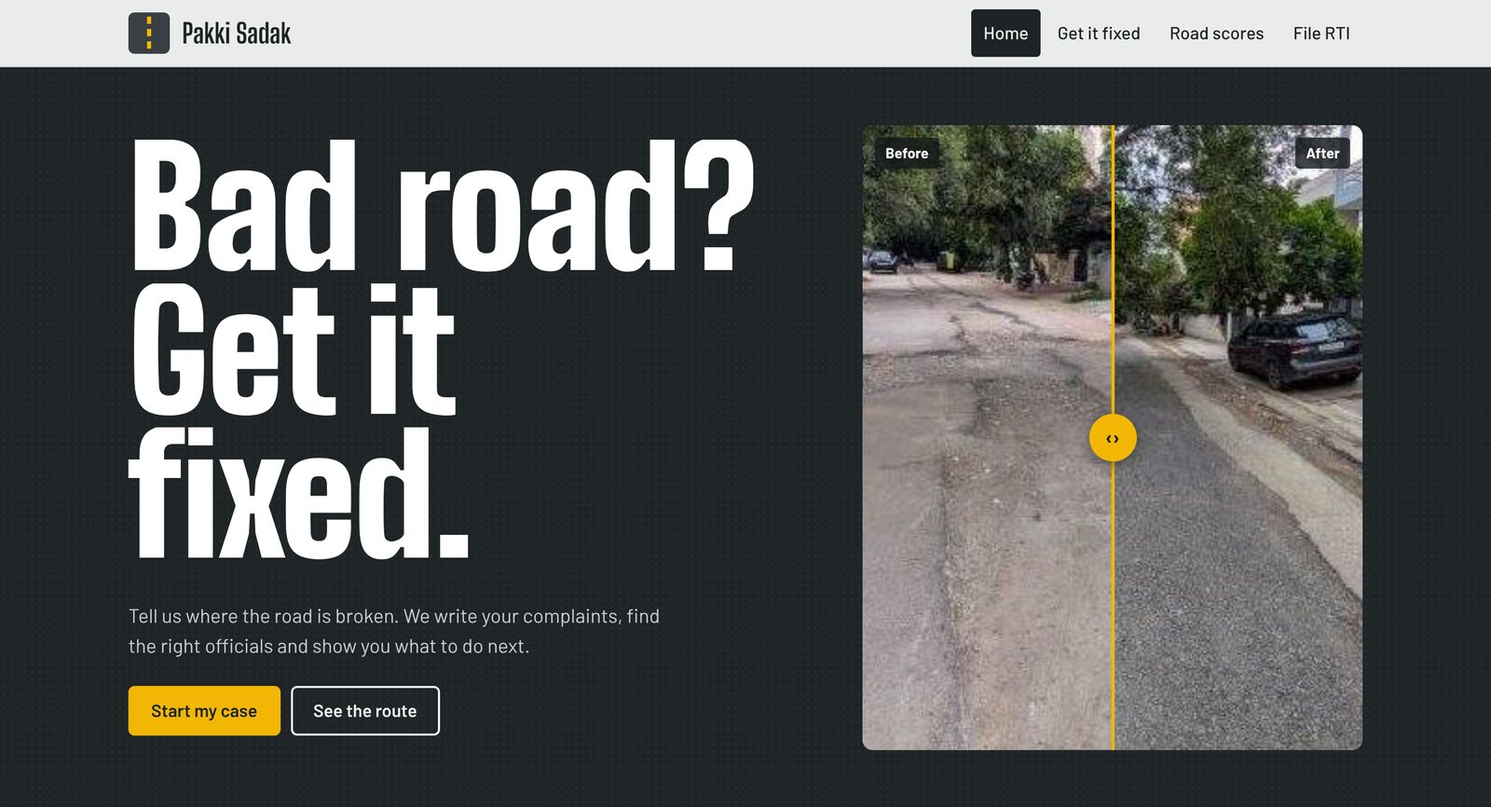
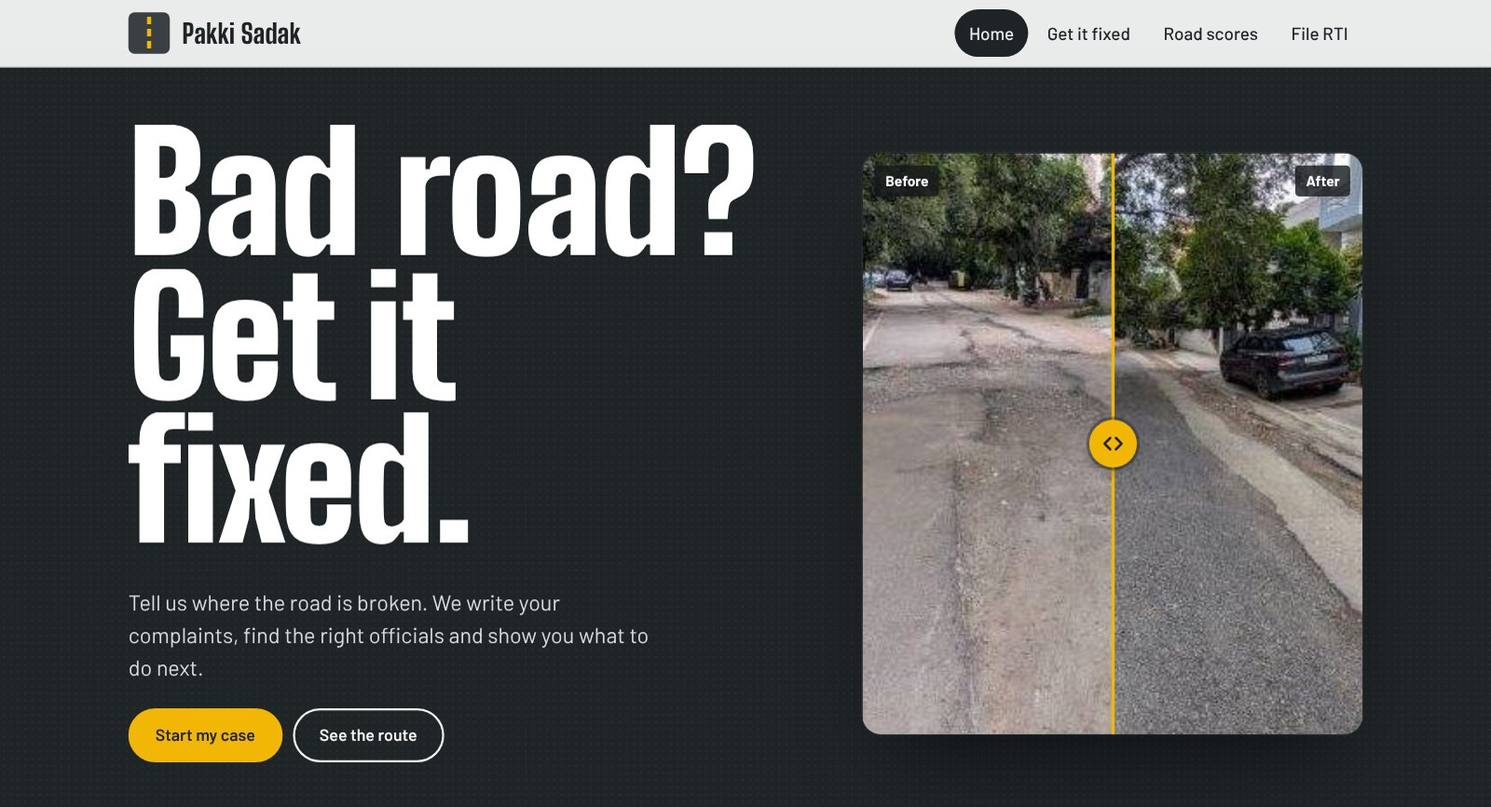
Portfolio: refresh Pakki Sadak card with the polished site screenshot
Claude-Session: https://claude.ai/code/session_01CyFj4p25ard8XS1rsywGwb

diff --git a/index.html b/index.html
@@ -612,7 +612,7 @@ section{padding-top:44px}
 <section id="proof"><div class="wrap">
 <div class="shead"><h2>What I would own in your Founder’s Office, and the proof</h2><p>Five things founders hand to their office, and the work I have delivered under each.</p></div>
 <div class="pnavs"><a href="#p-capital" class="pnav sun"><i><svg viewBox="0 0 48 48"><circle cx="24" cy="24" r="17" fill="none" stroke="currentColor" stroke-width="3.5"/><path d="M24 13v22M29.5 17.5c-1.2-1.6-3.2-2.5-5.5-2.5-3 0-5.5 1.7-5.5 4.2 0 5.8 11.5 3 11.5 9 0 2.6-2.6 4.3-6 4.3-2.6 0-4.8-1-6-2.8" fill="none" stroke="currentColor" stroke-width="3.5" stroke-linecap="round"/></svg></i><b>Capital raising and investor narrative</b><span>Fundable stories backed by hard numbers</span></a><a href="#p-build" class="pnav coral"><i><svg viewBox="0 0 48 48"><rect x="7" y="9" width="34" height="26" rx="4" fill="none" stroke="currentColor" stroke-width="3.5"/><path d="M18 18l-4 4 4 4M30 18l4 4-4 4M26 16l-4 12" fill="none" stroke="currentColor" stroke-width="3" stroke-linecap="round" stroke-linejoin="round"/><path d="M16 41h16" stroke="currentColor" stroke-width="3.5" stroke-linecap="round"/></svg></i><b>0-to-1 builds and AI automation</b><span>Prototypes and AI agents, shipped in days</span></a><a href="#p-research" class="pnav sky"><i><svg viewBox="0 0 48 48"><circle cx="21" cy="21" r="12" fill="none" stroke="currentColor" stroke-width="3.5"/><path d="M30 30l10 10" stroke="currentColor" stroke-width="4" stroke-linecap="round"/><path d="M15 24l4-5 4 3 4-6" fill="none" stroke="currentColor" stroke-width="3" stroke-linecap="round" stroke-linejoin="round"/></svg></i><b>Market research that drives decisions</b><span>Market size and customers, one clear call</span></a><a href="#p-gtm" class="pnav leaf"><i><svg viewBox="0 0 48 48"><path d="M8 38L22 10l6 14 4-6 8 20z" fill="none" stroke="currentColor" stroke-width="3.5" stroke-linejoin="round"/><path d="M22 10v-4l6 2-6 2" fill="currentColor" stroke="currentColor" stroke-width="2" stroke-linejoin="round"/></svg></i><b>Go-to-market and partnerships</b><span>Find the whitespace, close the partners</span></a><a href="#p-cadence" class="pnav violet"><i><svg viewBox="0 0 48 48"><rect x="8" y="26" width="7" height="14" rx="2" fill="currentColor"/><rect x="20.5" y="17" width="7" height="23" rx="2" fill="currentColor"/><rect x="33" y="8" width="7" height="32" rx="2" fill="currentColor"/></svg></i><b>Dashboards and operating cadence</b><span>Weekly reviews that keep work on track</span></a></div>
-<div class="pillar sun" id="p-capital"><div class="phead"><i><svg viewBox="0 0 48 48"><circle cx="24" cy="24" r="17" fill="none" stroke="currentColor" stroke-width="3.5"/><path d="M24 13v22M29.5 17.5c-1.2-1.6-3.2-2.5-5.5-2.5-3 0-5.5 1.7-5.5 4.2 0 5.8 11.5 3 11.5 9 0 2.6-2.6 4.3-6 4.3-2.6 0-4.8-1-6-2.8" fill="none" stroke="currentColor" stroke-width="3.5" stroke-linecap="round"/></svg></i><h3>Capital raising and investor narrative</h3><p>Turn a programme or business into a fundable story with clear numbers, risks and a clear ask.</p></div><div class="cards"><article class="card"><img class="logo" src="ecoforge.png" alt="Ecoforge Advisors logo"><div class="tag">UNDP-GCF / Sri Lanka</div><h4>Electrifying Colombo’s bus fleet</h4><p>Wrote UNDP Sri Lanka’s Green Climate Fund proposal to electrify Colombo’s buses. It funded 161 e-buses.</p><a class="reclink" href="https://www.ccacoalition.org/projects/enabling-environment-electric-buses-public-transport-and-their-pilot-deployment-colombo-sri-lanka" target="_blank" rel="noopener">Colombo e-bus pilot, CCAC &#8599;</a><div class="stats"><div><b>161</b><span>e-buses funded</span></div><div><b>$81M</b><span>proposal</span></div></div></article><article class="card"><img class="logo" src="ecoforge.png" alt="Ecoforge Advisors logo"><div class="tag">UNDP-GEF / Liberia</div><h4>Private capital for Liberian agriculture</h4><p>Designed a $10M UNDP-GEF programme bringing private capital to Liberian farming, mapping 100+ agri MSMEs.</p><a class="reclink" href="https://www.undp.org/liberia/press-releases/epa-undp-seal-partnership-us10m-agriculture-resilience-project" target="_blank" rel="noopener">SARTLA partnership, UNDP Liberia &#8599;</a><div class="stats"><div><b>$10M</b><span>programme</span></div><div><b>100+</b><span>MSME funnels mapped</span></div></div></article><article class="card"><img class="logo" src="ecoforge.png" alt="Ecoforge Advisors logo"><div class="tag">UNDP-GCF / Nigeria</div><h4>Nigeria climate resilience fund</h4><p>Led the design of Nigeria’s UNDP-GCF climate resilience fund, unlocking $130M of finance for 2.8M people.</p><a class="reclink" href="https://www.cnbcafrica.com/2026/world-bank-approves-500-million-for-nigeria-climate-resilience-project" target="_blank" rel="noopener">Nigeria resilience project, CNBC Africa &#8599;</a><div class="stats"><div><b>$130M</b><span>unlocked</span></div><div><b>2.8M</b><span>beneficiaries</span></div></div></article></div></div><div class="pillar coral" id="p-build"><div class="phead"><i><svg viewBox="0 0 48 48"><rect x="7" y="9" width="34" height="26" rx="4" fill="none" stroke="currentColor" stroke-width="3.5"/><path d="M18 18l-4 4 4 4M30 18l4 4-4 4M26 16l-4 12" fill="none" stroke="currentColor" stroke-width="3" stroke-linecap="round" stroke-linejoin="round"/><path d="M16 41h16" stroke="currentColor" stroke-width="3.5" stroke-linecap="round"/></svg></i><h3>0-to-1 builds and AI automation</h3><p>Prototype products and automate repetitive work with AI agents, so ideas get tested in days.</p></div><div class="cards"><article class="card wide feature"><img class="shot" src="pakki-sadak-2026.jpg" alt="Pakki Sadak homepage: Bad road? Get it fixed, with a drag-to-compare before and after of a relaid street in HSR Layout"><div><div class="tag">Civic tech / Public policy / Live</div><h4>Pakki Sadak</h4><p>Got 4 roads re-laid in 9 days by building a civic grievance platform; piloted with ~15 citizen reports.</p><a class="cardlink" href="https://pakki-sadak.vercel.app" target="_blank" rel="noopener">Visit website</a></div></article><article class="card wide feature flip"><img class="shot" src="krishilink-2026.jpg" alt="KrishiLink homepage: Harvest is not the time to sell, with options to check offers against MSP and store grain"><div><div class="tag">Agritech / Fintech / Live</div><h4>KrishiLink</h4><p>Built and launched a grain commerce platform helping farmers avoid distress-selling across 5 user workflows.</p><a class="cardlink" href="https://krishilink-mauve.vercel.app" target="_blank" rel="noopener">Visit website</a></div></article><article class="card wide feature"><img class="shot" style="background:#070a0d" src="climate-map-2026.jpg" alt="India Climate Startup Map: 1,818 climate startups pinned on a map of India, with top cities Bengaluru, Delhi and Mumbai"><div><div class="tag">Climate tech / Data / Live</div><h4>India Climate Startup Map</h4><p>Built one searchable map of 1,818 Indian climate startups across 140 cities and 16 sectors; 597 have raised funding.</p><a class="cardlink" href="https://india-climate-map-beta.vercel.app" target="_blank" rel="noopener">Visit website</a></div></article><article class="card wide mini"><svg class="shot dark" viewBox="0 0 480 300" role="img" aria-label="EarMute: an open earbud case unmutes Google Meet, a closed case mutes it" preserveAspectRatio="xMidYMid slice"><rect width="480" height="300" fill="#0B1022"/><g transform="translate(70 70)"><rect x="0" y="60" width="140" height="90" rx="40" fill="#E9ECF5"/><path d="M8 62 C8 10 132 10 132 62" fill="#C9CFE0" transform="rotate(-28 8 62)"/><ellipse cx="45" cy="88" rx="14" ry="18" fill="#1B2140"/><ellipse cx="95" cy="88" rx="14" ry="18" fill="#1B2140"/><text x="70" y="190" text-anchor="middle" fill="#9AA3C0" font-family="sans-serif" font-size="18">Lid open</text></g><g transform="translate(290 80)"><rect x="0" y="40" width="120" height="120" rx="60" fill="#22C55E"/><rect x="48" y="62" width="24" height="44" rx="12" fill="#0B1022"/><path d="M38 96 a22 22 0 0 0 44 0 M60 118 v14" stroke="#0B1022" stroke-width="6" fill="none" stroke-linecap="round"/><text x="60" y="180" text-anchor="middle" fill="#9AA3C0" font-family="sans-serif" font-size="18">Meet unmuted</text></g><path d="M230 140 h40 m-12 -12 l12 12 -12 12" stroke="#E9ECF5" stroke-width="5" fill="none" stroke-linecap="round" stroke-linejoin="round"/></svg><div><div class="tag">Hardware hack / AI-built</div><h4>EarMute</h4><p>Built a hands-free Google Meet mute switch using a budget earbud case, via the Windows Bluetooth API.</p></div></article></div></div><div class="pillar sky" id="p-research"><div class="phead"><i><svg viewBox="0 0 48 48"><circle cx="21" cy="21" r="12" fill="none" stroke="currentColor" stroke-width="3.5"/><path d="M30 30l10 10" stroke="currentColor" stroke-width="4" stroke-linecap="round"/><path d="M15 24l4-5 4 3 4-6" fill="none" stroke="currentColor" stroke-width="3" stroke-linecap="round" stroke-linejoin="round"/></svg></i><h3>Market research that drives decisions</h3><p>Size the market, talk to customers and map competitors, then hand the founder one clear call.</p></div><div class="cards"><article class="card"><div class="logos"><img class="logo" src="kdem.png" alt="Karnataka Digital Economy Mission logo"><img class="logo" src="gok-logo.png" alt="Government of Karnataka emblem"></div><div class="tag">Policy strategy / Govt of Karnataka</div><h4>Karnataka Fintech Task Force Report 2022</h4><p>Wrote Karnataka’s insurtech and wealthtech strategy, and ran investor events that sparked ₹40 Cr+ in talks.</p><div class="stats"><div><b>120+</b><span>startups connected</span></div><div><b>15+</b><span>VC firms</span></div></div><a class="cardlink" href="https://drive.google.com/file/d/1N7gXwPwLj4marvSvDI3oW86rpze0KTxJ/view" target="_blank" rel="noopener">Read the report</a></article><article class="card"><div class="logos"><img class="logo" src="arya-logo.png" alt="Arya.ag logo"><img class="logo" src="iimv-logo.png" alt="IIM Visakhapatnam logo"></div><div class="tag">Problem-solution deck / Arya.ag</div><h4>Making Arya.ag indispensable to farmers, FPOs and traders</h4><p>Ran 30 field interviews on why farmers and FPOs skipped Arya.ag, then redesigned it around 5 user journeys.</p><div class="stats"><div><b>30</b><span>field interviews</span></div><div><b>5</b><span>user journeys</span></div></div><a class="cardlink" href="arya-ag-deck.pdf" target="_blank" rel="noopener">Open the deck (PDF)</a></article><article class="card"><div class="logos"><span class="logo wordmark">Satin Finserv</span></div><div class="tag">Climate venture / Sankalp by Satin Finserv</div><h4>Finding a ₹600 Cr market in rice husk ash</h4><p>Spoke to rice mills and startup founders, then sized the market and built unit economics for ash-grading hubs.</p><div class="stats"><div><b>5</b><span>primary research calls</span></div><div><b>24</b><span>secondary sources</span></div></div><a class="cardlink" href="raakh-deck.pdf" target="_blank" rel="noopener">Open the deck (PDF)</a></article></div></div><div class="pillar leaf" id="p-gtm"><div class="phead"><i><svg viewBox="0 0 48 48"><path d="M8 38L22 10l6 14 4-6 8 20z" fill="none" stroke="currentColor" stroke-width="3.5" stroke-linejoin="round"/><path d="M22 10v-4l6 2-6 2" fill="currentColor" stroke="currentColor" stroke-width="2" stroke-linejoin="round"/></svg></i><h3>Go-to-market and partnerships</h3><p>Find the whitespace and close the partners that unlock it.</p></div><div class="cards"><article class="card"><img class="logo" src="pranava.png" alt="Pranava logo"><div class="tag">Agri-tech startup / Chief of Staff</div><h4>Launching an organic peanut butter</h4><p>Launched an organic peanut butter, set its price after benchmarking 10+ products, and lifted margins.</p><div class="stats"><div><b>500+</b><span>units in 3 months</span></div><div><b>25%</b><span>profitability gain</span></div></div></article><article class="card"><img class="logo" src="takshashila.png" alt="Takshashila Consulting logo"><div class="tag">Market research / Bathware</div><h4>Dealer market research for a premium bathware brand</h4><p>Researched 150+ bathware dealers across 3 NCR markets and turned it into a national dealer playbook.</p><div class="stats"><div><b>150+</b><span>dealers researched</span></div><div><b>3</b><span>markets surveyed</span></div></div></article><article class="card"><img class="logo" src="conscious-planet.png" alt="Conscious Planet logo"><div class="tag">Partnerships / Karnataka and Tamil Nadu</div><h4>Building a $2M partner portfolio</h4><p>Brought ITC and RIL on board to raise $2M, and ran aggregation pilots that cut input and logistics costs.</p><div class="stats"><div><b>$2M</b><span>raised</span></div><div><b>20%</b><span>input cost cut</span></div></div></article></div></div><div class="pillar violet" id="p-cadence"><div class="phead"><i><svg viewBox="0 0 48 48"><rect x="8" y="26" width="7" height="14" rx="2" fill="currentColor"/><rect x="20.5" y="17" width="7" height="23" rx="2" fill="currentColor"/><rect x="33" y="8" width="7" height="32" rx="2" fill="currentColor"/></svg></i><h3>Dashboards and operating cadence</h3><p>Weekly and monthly reviews that show what moved, what stalled and who owns the fix.</p></div><div class="cards"><article class="card"><img class="logo" src="ecoforge.png" alt="Ecoforge Advisors logo"><div class="tag">Weekly dashboard</div><h4>Tracking 250+ climate-tech startups every week</h4><p>Led 5 analysts on a weekly dashboard of 250+ climate-tech startups that guided $50M+ in investments.</p><div class="stats"><div><b>250+</b><span>startups tracked</span></div><div><b>$50M+</b><span>decisions guided</span></div></div></article><article class="card"><img class="logo" src="conscious-planet.png" alt="Conscious Planet logo"><div class="tag">Weekly and monthly reviews</div><h4>Weekly and monthly reviews for 24 partner organisations</h4><p>Ran weekly and monthly reviews for 24 partner organisations, finding and fixing where enrolments dropped off.</p><div class="stats"><div><b>$100K</b><span>profit unlocked</span></div><div><b>+30%</b><span>enrolment</span></div><div><b>+50%</b><span>engagement</span></div></div></article><article class="card"><img class="logo" src="isha-outreach.png" alt="Isha Outreach logo"><div class="tag">Weekly cadence</div><h4>Field teams that stayed</h4><p>Set up onboarding and weekly check-ins that kept 90%+ of 30+ volunteers, and closed 50+ field partnerships.</p><div class="stats"><div><b>90%+</b><span>retention</span></div><div><b>+40%</b><span>YoY enrolment</span></div></div></article></div></div>
+<div class="pillar sun" id="p-capital"><div class="phead"><i><svg viewBox="0 0 48 48"><circle cx="24" cy="24" r="17" fill="none" stroke="currentColor" stroke-width="3.5"/><path d="M24 13v22M29.5 17.5c-1.2-1.6-3.2-2.5-5.5-2.5-3 0-5.5 1.7-5.5 4.2 0 5.8 11.5 3 11.5 9 0 2.6-2.6 4.3-6 4.3-2.6 0-4.8-1-6-2.8" fill="none" stroke="currentColor" stroke-width="3.5" stroke-linecap="round"/></svg></i><h3>Capital raising and investor narrative</h3><p>Turn a programme or business into a fundable story with clear numbers, risks and a clear ask.</p></div><div class="cards"><article class="card"><img class="logo" src="ecoforge.png" alt="Ecoforge Advisors logo"><div class="tag">UNDP-GCF / Sri Lanka</div><h4>Electrifying Colombo’s bus fleet</h4><p>Wrote UNDP Sri Lanka’s Green Climate Fund proposal to electrify Colombo’s buses. It funded 161 e-buses.</p><a class="reclink" href="https://www.ccacoalition.org/projects/enabling-environment-electric-buses-public-transport-and-their-pilot-deployment-colombo-sri-lanka" target="_blank" rel="noopener">Colombo e-bus pilot, CCAC &#8599;</a><div class="stats"><div><b>161</b><span>e-buses funded</span></div><div><b>$81M</b><span>proposal</span></div></div></article><article class="card"><img class="logo" src="ecoforge.png" alt="Ecoforge Advisors logo"><div class="tag">UNDP-GEF / Liberia</div><h4>Private capital for Liberian agriculture</h4><p>Designed a $10M UNDP-GEF programme bringing private capital to Liberian farming, mapping 100+ agri MSMEs.</p><a class="reclink" href="https://www.undp.org/liberia/press-releases/epa-undp-seal-partnership-us10m-agriculture-resilience-project" target="_blank" rel="noopener">SARTLA partnership, UNDP Liberia &#8599;</a><div class="stats"><div><b>$10M</b><span>programme</span></div><div><b>100+</b><span>MSME funnels mapped</span></div></div></article><article class="card"><img class="logo" src="ecoforge.png" alt="Ecoforge Advisors logo"><div class="tag">UNDP-GCF / Nigeria</div><h4>Nigeria climate resilience fund</h4><p>Led the design of Nigeria’s UNDP-GCF climate resilience fund, unlocking $130M of finance for 2.8M people.</p><a class="reclink" href="https://www.cnbcafrica.com/2026/world-bank-approves-500-million-for-nigeria-climate-resilience-project" target="_blank" rel="noopener">Nigeria resilience project, CNBC Africa &#8599;</a><div class="stats"><div><b>$130M</b><span>unlocked</span></div><div><b>2.8M</b><span>beneficiaries</span></div></div></article></div></div><div class="pillar coral" id="p-build"><div class="phead"><i><svg viewBox="0 0 48 48"><rect x="7" y="9" width="34" height="26" rx="4" fill="none" stroke="currentColor" stroke-width="3.5"/><path d="M18 18l-4 4 4 4M30 18l4 4-4 4M26 16l-4 12" fill="none" stroke="currentColor" stroke-width="3" stroke-linecap="round" stroke-linejoin="round"/><path d="M16 41h16" stroke="currentColor" stroke-width="3.5" stroke-linecap="round"/></svg></i><h3>0-to-1 builds and AI automation</h3><p>Prototype products and automate repetitive work with AI agents, so ideas get tested in days.</p></div><div class="cards"><article class="card wide feature"><img class="shot" src="pakki-sadak-2026.jpg?v=20261124" alt="Pakki Sadak homepage: Bad road? Get it fixed, with a drag-to-compare before and after of a relaid street in HSR Layout"><div><div class="tag">Civic tech / Public policy / Live</div><h4>Pakki Sadak</h4><p>Got 4 roads re-laid in 9 days by building a civic grievance platform; piloted with ~15 citizen reports.</p><a class="cardlink" href="https://pakki-sadak.vercel.app" target="_blank" rel="noopener">Visit website</a></div></article><article class="card wide feature flip"><img class="shot" src="krishilink-2026.jpg" alt="KrishiLink homepage: Harvest is not the time to sell, with options to check offers against MSP and store grain"><div><div class="tag">Agritech / Fintech / Live</div><h4>KrishiLink</h4><p>Built and launched a grain commerce platform helping farmers avoid distress-selling across 5 user workflows.</p><a class="cardlink" href="https://krishilink-mauve.vercel.app" target="_blank" rel="noopener">Visit website</a></div></article><article class="card wide feature"><img class="shot" style="background:#070a0d" src="climate-map-2026.jpg" alt="India Climate Startup Map: 1,818 climate startups pinned on a map of India, with top cities Bengaluru, Delhi and Mumbai"><div><div class="tag">Climate tech / Data / Live</div><h4>India Climate Startup Map</h4><p>Built one searchable map of 1,818 Indian climate startups across 140 cities and 16 sectors; 597 have raised funding.</p><a class="cardlink" href="https://india-climate-map-beta.vercel.app" target="_blank" rel="noopener">Visit website</a></div></article><article class="card wide mini"><svg class="shot dark" viewBox="0 0 480 300" role="img" aria-label="EarMute: an open earbud case unmutes Google Meet, a closed case mutes it" preserveAspectRatio="xMidYMid slice"><rect width="480" height="300" fill="#0B1022"/><g transform="translate(70 70)"><rect x="0" y="60" width="140" height="90" rx="40" fill="#E9ECF5"/><path d="M8 62 C8 10 132 10 132 62" fill="#C9CFE0" transform="rotate(-28 8 62)"/><ellipse cx="45" cy="88" rx="14" ry="18" fill="#1B2140"/><ellipse cx="95" cy="88" rx="14" ry="18" fill="#1B2140"/><text x="70" y="190" text-anchor="middle" fill="#9AA3C0" font-family="sans-serif" font-size="18">Lid open</text></g><g transform="translate(290 80)"><rect x="0" y="40" width="120" height="120" rx="60" fill="#22C55E"/><rect x="48" y="62" width="24" height="44" rx="12" fill="#0B1022"/><path d="M38 96 a22 22 0 0 0 44 0 M60 118 v14" stroke="#0B1022" stroke-width="6" fill="none" stroke-linecap="round"/><text x="60" y="180" text-anchor="middle" fill="#9AA3C0" font-family="sans-serif" font-size="18">Meet unmuted</text></g><path d="M230 140 h40 m-12 -12 l12 12 -12 12" stroke="#E9ECF5" stroke-width="5" fill="none" stroke-linecap="round" stroke-linejoin="round"/></svg><div><div class="tag">Hardware hack / AI-built</div><h4>EarMute</h4><p>Built a hands-free Google Meet mute switch using a budget earbud case, via the Windows Bluetooth API.</p></div></article></div></div><div class="pillar sky" id="p-research"><div class="phead"><i><svg viewBox="0 0 48 48"><circle cx="21" cy="21" r="12" fill="none" stroke="currentColor" stroke-width="3.5"/><path d="M30 30l10 10" stroke="currentColor" stroke-width="4" stroke-linecap="round"/><path d="M15 24l4-5 4 3 4-6" fill="none" stroke="currentColor" stroke-width="3" stroke-linecap="round" stroke-linejoin="round"/></svg></i><h3>Market research that drives decisions</h3><p>Size the market, talk to customers and map competitors, then hand the founder one clear call.</p></div><div class="cards"><article class="card"><div class="logos"><img class="logo" src="kdem.png" alt="Karnataka Digital Economy Mission logo"><img class="logo" src="gok-logo.png" alt="Government of Karnataka emblem"></div><div class="tag">Policy strategy / Govt of Karnataka</div><h4>Karnataka Fintech Task Force Report 2022</h4><p>Wrote Karnataka’s insurtech and wealthtech strategy, and ran investor events that sparked ₹40 Cr+ in talks.</p><div class="stats"><div><b>120+</b><span>startups connected</span></div><div><b>15+</b><span>VC firms</span></div></div><a class="cardlink" href="https://drive.google.com/file/d/1N7gXwPwLj4marvSvDI3oW86rpze0KTxJ/view" target="_blank" rel="noopener">Read the report</a></article><article class="card"><div class="logos"><img class="logo" src="arya-logo.png" alt="Arya.ag logo"><img class="logo" src="iimv-logo.png" alt="IIM Visakhapatnam logo"></div><div class="tag">Problem-solution deck / Arya.ag</div><h4>Making Arya.ag indispensable to farmers, FPOs and traders</h4><p>Ran 30 field interviews on why farmers and FPOs skipped Arya.ag, then redesigned it around 5 user journeys.</p><div class="stats"><div><b>30</b><span>field interviews</span></div><div><b>5</b><span>user journeys</span></div></div><a class="cardlink" href="arya-ag-deck.pdf" target="_blank" rel="noopener">Open the deck (PDF)</a></article><article class="card"><div class="logos"><span class="logo wordmark">Satin Finserv</span></div><div class="tag">Climate venture / Sankalp by Satin Finserv</div><h4>Finding a ₹600 Cr market in rice husk ash</h4><p>Spoke to rice mills and startup founders, then sized the market and built unit economics for ash-grading hubs.</p><div class="stats"><div><b>5</b><span>primary research calls</span></div><div><b>24</b><span>secondary sources</span></div></div><a class="cardlink" href="raakh-deck.pdf" target="_blank" rel="noopener">Open the deck (PDF)</a></article></div></div><div class="pillar leaf" id="p-gtm"><div class="phead"><i><svg viewBox="0 0 48 48"><path d="M8 38L22 10l6 14 4-6 8 20z" fill="none" stroke="currentColor" stroke-width="3.5" stroke-linejoin="round"/><path d="M22 10v-4l6 2-6 2" fill="currentColor" stroke="currentColor" stroke-width="2" stroke-linejoin="round"/></svg></i><h3>Go-to-market and partnerships</h3><p>Find the whitespace and close the partners that unlock it.</p></div><div class="cards"><article class="card"><img class="logo" src="pranava.png" alt="Pranava logo"><div class="tag">Agri-tech startup / Chief of Staff</div><h4>Launching an organic peanut butter</h4><p>Launched an organic peanut butter, set its price after benchmarking 10+ products, and lifted margins.</p><div class="stats"><div><b>500+</b><span>units in 3 months</span></div><div><b>25%</b><span>profitability gain</span></div></div></article><article class="card"><img class="logo" src="takshashila.png" alt="Takshashila Consulting logo"><div class="tag">Market research / Bathware</div><h4>Dealer market research for a premium bathware brand</h4><p>Researched 150+ bathware dealers across 3 NCR markets and turned it into a national dealer playbook.</p><div class="stats"><div><b>150+</b><span>dealers researched</span></div><div><b>3</b><span>markets surveyed</span></div></div></article><article class="card"><img class="logo" src="conscious-planet.png" alt="Conscious Planet logo"><div class="tag">Partnerships / Karnataka and Tamil Nadu</div><h4>Building a $2M partner portfolio</h4><p>Brought ITC and RIL on board to raise $2M, and ran aggregation pilots that cut input and logistics costs.</p><div class="stats"><div><b>$2M</b><span>raised</span></div><div><b>20%</b><span>input cost cut</span></div></div></article></div></div><div class="pillar violet" id="p-cadence"><div class="phead"><i><svg viewBox="0 0 48 48"><rect x="8" y="26" width="7" height="14" rx="2" fill="currentColor"/><rect x="20.5" y="17" width="7" height="23" rx="2" fill="currentColor"/><rect x="33" y="8" width="7" height="32" rx="2" fill="currentColor"/></svg></i><h3>Dashboards and operating cadence</h3><p>Weekly and monthly reviews that show what moved, what stalled and who owns the fix.</p></div><div class="cards"><article class="card"><img class="logo" src="ecoforge.png" alt="Ecoforge Advisors logo"><div class="tag">Weekly dashboard</div><h4>Tracking 250+ climate-tech startups every week</h4><p>Led 5 analysts on a weekly dashboard of 250+ climate-tech startups that guided $50M+ in investments.</p><div class="stats"><div><b>250+</b><span>startups tracked</span></div><div><b>$50M+</b><span>decisions guided</span></div></div></article><article class="card"><img class="logo" src="conscious-planet.png" alt="Conscious Planet logo"><div class="tag">Weekly and monthly reviews</div><h4>Weekly and monthly reviews for 24 partner organisations</h4><p>Ran weekly and monthly reviews for 24 partner organisations, finding and fixing where enrolments dropped off.</p><div class="stats"><div><b>$100K</b><span>profit unlocked</span></div><div><b>+30%</b><span>enrolment</span></div><div><b>+50%</b><span>engagement</span></div></div></article><article class="card"><img class="logo" src="isha-outreach.png" alt="Isha Outreach logo"><div class="tag">Weekly cadence</div><h4>Field teams that stayed</h4><p>Set up onboarding and weekly check-ins that kept 90%+ of 30+ volunteers, and closed 50+ field partnerships.</p><div class="stats"><div><b>90%+</b><span>retention</span></div><div><b>+40%</b><span>YoY enrolment</span></div></div></article></div></div>
 </div></section>
 
 <section id="skills"><div class="wrap">
